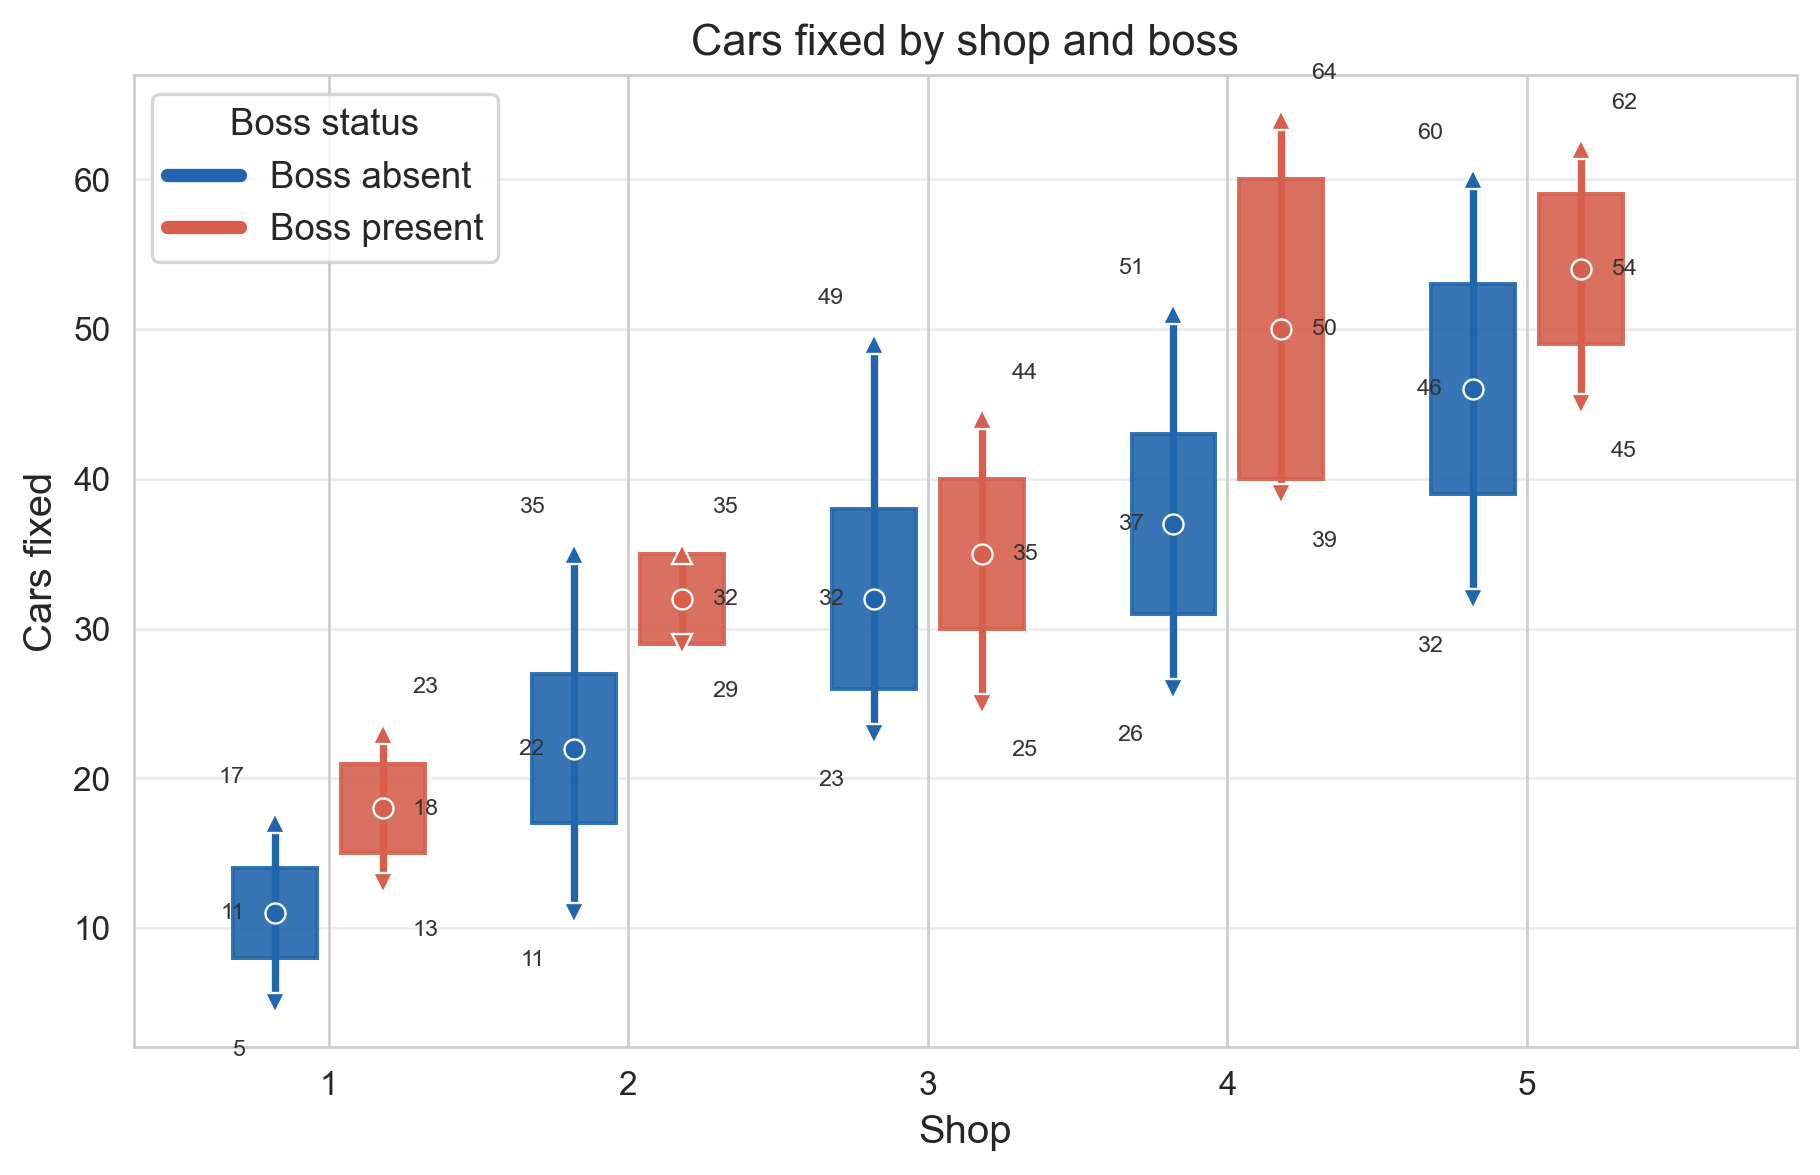
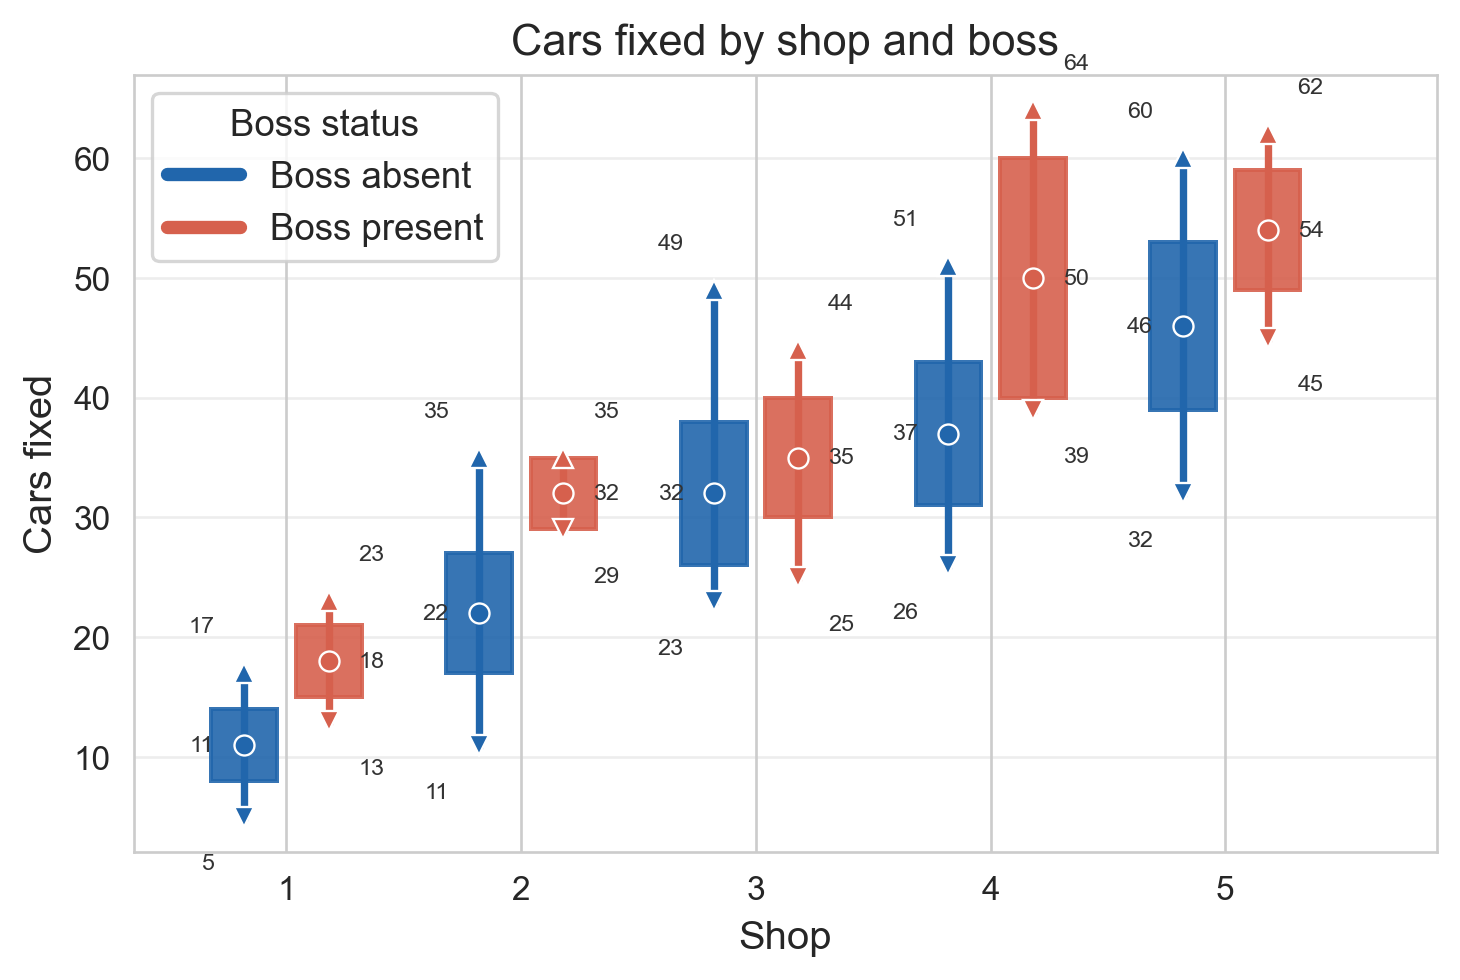
Add change to quarto file

diff --git a/index.html b/index.html
@@ -72,7 +72,7 @@ ul.task-list li input[type="checkbox"] {
 <section id="the-data" class="level2">
 <h2 class="anchored" data-anchor-id="the-data">The Data 📊</h2>
 <p>The dataset contains 250 observations of daily productivity across 5 shops:</p>
-<div id="cell-fig-productivity-by-boss" class="cell" data-fig-height="12" data-fig-width="10" data-execution_count="2">
+<div id="cell-fig-productivity-by-boss" class="cell" data-fig-height="12" data-fig-width="9" data-execution_count="2">
 <div class="cell-output cell-output-display">
 <div id="fig-productivity-by-boss" class="quarto-float quarto-figure quarto-figure-center anchored">
 <figure class="quarto-float quarto-float-fig figure">
@@ -86,12 +86,12 @@ Figure&nbsp;1: Cars fixed by day (observations 1–250): five panels by shop. Co
 </div>
 </div>
 </div>
-<div id="cell-fig-summary-shop-boss" class="cell" data-fig-height="5" data-fig-width="10.5" data-execution_count="3">
+<div id="cell-fig-summary-shop-boss" class="cell" data-fig-height="4" data-fig-width="8" data-execution_count="3">
 <div class="cell-output cell-output-display">
 <div id="fig-summary-shop-boss" class="quarto-float quarto-figure quarto-figure-center anchored">
 <figure class="quarto-float quarto-float-fig figure">
 <div aria-describedby="fig-summary-shop-boss-caption-0ceaefa1-69ba-4598-a22c-09a6ac19f8ca">
-<img src="index_files/figure-html/fig-summary-shop-boss-output-1.png" width="910" height="587" class="figure-img">
+<img src="index_files/figure-html/fig-summary-shop-boss-output-1.png" width="730" height="490" class="figure-img">
 </div>
 <figcaption class="quarto-float-caption-bottom quarto-float-caption quarto-float-fig" id="fig-summary-shop-boss-caption-0ceaefa1-69ba-4598-a22c-09a6ac19f8ca">
 Figure&nbsp;2: Candlestick chart by shop and boss: wick = min–max; body = mean ± SD (clipped). ▼ / ● / ▲ mark min, mean, and max; labels show those numeric values.
@@ -111,12 +111,12 @@ Figure&nbsp;2: Candlestick chart by shop and boss: wick = min–max; body = mean
 3. Shop 5 experiences a moderate improvement, with the mean rising from 46 to 54, indicating already strong baseline performance with additional gains from leadership presence.<br>
 4. Shop 1 remains the lowest-performing store, though it improves from 11 to 18, showing that the boss’s presence still has a meaningful relative impact.<br>
 5. Shop 3, despite having the highest number of visits, shows only a modest increase (32 to 35), suggesting limited marginal impact of supervision.</p>
-<div id="cell-fig-candlestick-predictions" class="cell" data-fig-height="5" data-fig-width="10.5" data-execution_count="5">
+<div id="cell-fig-candlestick-predictions" class="cell" data-fig-height="4" data-fig-width="8" data-execution_count="5">
 <div class="cell-output cell-output-display">
 <div id="fig-candlestick-predictions" class="quarto-float quarto-figure quarto-figure-center anchored">
 <figure class="quarto-float quarto-float-fig figure">
 <div aria-describedby="fig-candlestick-predictions-caption-0ceaefa1-69ba-4598-a22c-09a6ac19f8ca">
-<img src="index_files/figure-html/fig-candlestick-predictions-output-1.png" width="910" height="575" class="figure-img">
+<img src="index_files/figure-html/fig-candlestick-predictions-output-1.png" width="730" height="480" class="figure-img">
 </div>
 <figcaption class="quarto-float-caption-bottom quarto-float-caption quarto-float-fig" id="fig-candlestick-predictions-caption-0ceaefa1-69ba-4598-a22c-09a6ac19f8ca">
 Figure&nbsp;3: Candlestick view of OLS predictions: wick = 95% prediction interval for one future day; body = 95% CI for the mean; dot = point prediction. Blue = boss absent, orange = boss present.
